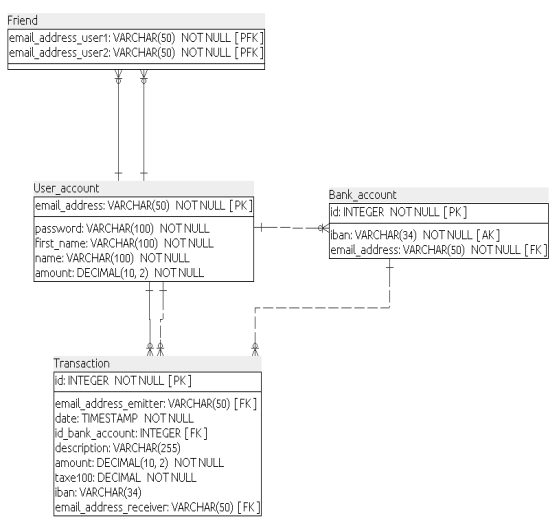
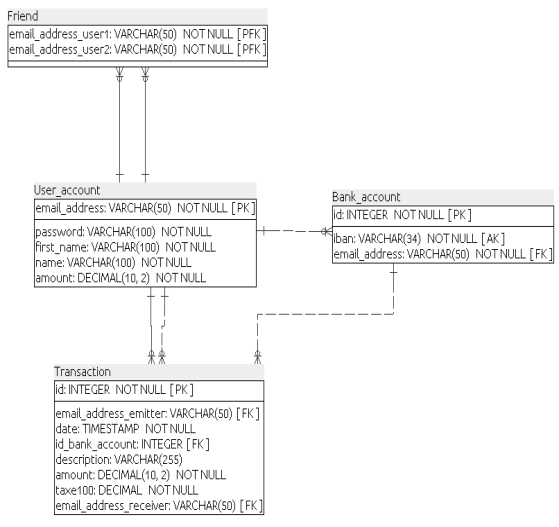
update transaction methods

diff --git a/src/test/java/com/PayMyBuddy/controller/TransactionControllerTest.java b/src/test/java/com/PayMyBuddy/controller/TransactionControllerTest.java
@@ -93,11 +93,8 @@ public class TransactionControllerTest {
   @Test
   public void testCreateMoneyDeposit() throws Exception {
     moneyDeposit = new Transaction();
-    moneyDeposit.setIban("NL46INGB6637543128");
 
     when(userAccountService.userAccountEmailExist(moneyDeposit.getEmailAddressReceiver())).thenReturn(true);
-    when(bankAccountService.bankAccountExist(moneyDeposit.getEmailAddressReceiver(),
-        moneyDeposit.getIban())).thenReturn(true);
     when(transactionService.makeMoneyDeposit(moneyDeposit)).thenReturn(moneyDeposit);
 
     MockHttpServletRequestBuilder builder = MockMvcRequestBuilders.post("/moneyDeposit")
@@ -109,7 +106,6 @@ public class TransactionControllerTest {
   @Test
   public void testCreateMoneyDepositUserAccountDoesntExist() throws Exception {
     moneyDeposit = new Transaction();
-    moneyDeposit.setIban("NL46INGB6637543128");
 
     when(userAccountService.userAccountEmailExist(moneyDeposit.getEmailAddressReceiver())).thenReturn(false);
 
@@ -120,29 +116,14 @@ public class TransactionControllerTest {
   }
 
   @Test
-  public void testCreateMoneyDepositBankAccountDoesntExist() throws Exception {
-    moneyDeposit = new Transaction();
-    moneyDeposit.setIban("NL46INGB6637543128");
-
-    when(userAccountService.userAccountEmailExist(moneyDeposit.getEmailAddressReceiver())).thenReturn(true);
-    when(bankAccountService.bankAccountExist(moneyDeposit.getEmailAddressReceiver(),
-        moneyDeposit.getIban())).thenReturn(false);
-
-    MockHttpServletRequestBuilder builder = MockMvcRequestBuilders.post("/moneyDeposit")
-        .contentType(MediaType.APPLICATION_JSON_VALUE).accept(MediaType.APPLICATION_JSON).characterEncoding("UTF-8")
-        .content(new ObjectMapper().writeValueAsString(moneyDeposit));
-    this.mockMvc.perform(builder).andExpect(MockMvcResultMatchers.status().isNotFound());
-  }
-
-  @Test
   public void testCreateTransactionToBankAccount() throws Exception {
     transactionToBankAccount = new Transaction();
-    transactionToBankAccount.setIban("NL46INGB6637543128");
+    transactionToBankAccount.setIdBankAccount("1");
     transactionToBankAccount.setEmailAddressEmitter("adrien@mail.fr");
 
     when(userAccountService.userAccountEmailExist(transactionToBankAccount.getEmailAddressEmitter())).thenReturn(true);
     when(bankAccountService.bankAccountExist(transactionToBankAccount.getEmailAddressEmitter(),
-        transactionToBankAccount.getIban())).thenReturn(true);
+        transactionToBankAccount.getIdBankAccount())).thenReturn(true);
     when(userAccountService.checkEnoughMoney(transactionToBankAccount.getEmailAddressEmitter(),
         transactionToBankAccount.getAmount())).thenReturn(true);
     when(transactionService.makeTransactionToBankAccount(transactionToBankAccount))
@@ -157,7 +138,7 @@ public class TransactionControllerTest {
   @Test
   public void testCreateTransactionToBankAccountEmailDoesntExist() throws Exception {
     transactionToBankAccount = new Transaction();
-    transactionToBankAccount.setIban("NL46INGB6637543128");
+    transactionToBankAccount.setIdBankAccount("1");
     transactionToBankAccount.setEmailAddressEmitter("adrien@mail.fr");
 
     when(userAccountService.userAccountEmailExist(transactionToBankAccount.getEmailAddressEmitter())).thenReturn(false);
@@ -171,12 +152,12 @@ public class TransactionControllerTest {
   @Test
   public void testCreateTransactionToBankAccountBankAccountDoesntExist() throws Exception {
     transactionToBankAccount = new Transaction();
-    transactionToBankAccount.setIban("NL46INGB6637543128");
+    transactionToBankAccount.setIdBankAccount("1");
     transactionToBankAccount.setEmailAddressEmitter("adrien@mail.fr");
 
     when(userAccountService.userAccountEmailExist(transactionToBankAccount.getEmailAddressEmitter())).thenReturn(true);
     when(bankAccountService.bankAccountExist(transactionToBankAccount.getEmailAddressEmitter(),
-        transactionToBankAccount.getIban())).thenReturn(false);
+        transactionToBankAccount.getIdBankAccount())).thenReturn(false);
 
     MockHttpServletRequestBuilder builder = MockMvcRequestBuilders.post("/transactionToBankAccount")
         .contentType(MediaType.APPLICATION_JSON_VALUE).accept(MediaType.APPLICATION_JSON).characterEncoding("UTF-8")
@@ -187,12 +168,12 @@ public class TransactionControllerTest {
   @Test
   public void testCreateTransactionToBankAccountNotEnoughMoney() throws Exception {
     transactionToBankAccount = new Transaction();
-    transactionToBankAccount.setIban("NL46INGB6637543128");
+    transactionToBankAccount.setIdBankAccount("1");
     transactionToBankAccount.setEmailAddressEmitter("adrien@mail.fr");
 
     when(userAccountService.userAccountEmailExist(transactionToBankAccount.getEmailAddressEmitter())).thenReturn(true);
     when(bankAccountService.bankAccountExist(transactionToBankAccount.getEmailAddressEmitter(),
-        transactionToBankAccount.getIban())).thenReturn(true);
+        transactionToBankAccount.getIdBankAccount())).thenReturn(true);
     when(userAccountService.checkEnoughMoney(transactionToBankAccount.getEmailAddressEmitter(),
         transactionToBankAccount.getAmount())).thenReturn(false);
 

diff --git a/src/main/java/com/PayMyBuddy/controller/TransactionController.java b/src/main/java/com/PayMyBuddy/controller/TransactionController.java
@@ -99,14 +99,10 @@ public class TransactionController {
       logger.info("Post request with the endpoint 'moneyDeposit'");
       existingUserAccount = userAccountService.userAccountEmailExist(moneyDeposit.getEmailAddressReceiver());
       if (existingUserAccount) {
-        existingBankAccount = bankAccountService.bankAccountExist(moneyDeposit.getEmailAddressReceiver(),
-            moneyDeposit.getIban());
-        if (existingBankAccount) {
-          newMoneyDeposit = transactionService.makeMoneyDeposit(moneyDeposit);
-          logger.info(
-              "response following the Post on the endpoint 'moneyDeposit' with the given moneyDeposit : {"
-                  + moneyDeposit.toString() + "}");
-        }
+        newMoneyDeposit = transactionService.makeMoneyDeposit(moneyDeposit);
+        logger.info(
+            "response following the Post on the endpoint 'moneyDeposit' with the given moneyDeposit : {"
+                + moneyDeposit.toString() + "}");
       }
     } catch (Exception exception) {
       logger.error("Error in the TransactionController in the method createMoneyDeposit :"
@@ -118,11 +114,6 @@ public class TransactionController {
       throw new NonexistentException(
           "The user account "
               + moneyDeposit.getEmailAddressReceiver() + " doesn't exist.");
-    }
-    if (!existingBankAccount) {
-      logger.error("The emitter has not this bank account.");
-      throw new NonexistentException(
-          "The emitter has not this bank account.");
     }
     return newMoneyDeposit;
   }
@@ -145,7 +136,7 @@ public class TransactionController {
           .userAccountEmailExist(transactionToBankAccount.getEmailAddressEmitter());
       if (existingUserAccount) {
         existingBankAccount = bankAccountService.bankAccountExist(transactionToBankAccount.getEmailAddressEmitter(),
-            transactionToBankAccount.getIban());
+            transactionToBankAccount.getIdBankAccount());
         if (existingBankAccount) {
           checkIfEnoughMoney = userAccountService.checkEnoughMoney(transactionToBankAccount.getEmailAddressEmitter(),
               transactionToBankAccount.getAmount());

diff --git a/src/main/java/com/PayMyBuddy/service/TransactionServiceImpl.java b/src/main/java/com/PayMyBuddy/service/TransactionServiceImpl.java
@@ -1,7 +1,6 @@
 package com.PayMyBuddy.service;
 
 import com.PayMyBuddy.constants.Tax;
-import com.PayMyBuddy.model.BankAccount;
 import com.PayMyBuddy.model.Transaction;
 import com.PayMyBuddy.model.UserAccount;
 import com.PayMyBuddy.repository.BankAccountRepository;
@@ -89,10 +88,6 @@ public class TransactionServiceImpl implements TransactionService {
   public Transaction makeMoneyDeposit(Transaction moneyDeposit) {
     logger.debug("in the method makeFriendTransaction in the class TransactionServiceImpl");
     try {
-      BankAccount emitter = bankAccountRepository.findByIban(moneyDeposit.getIban());
-      double taxAmount = moneyDeposit.getAmount() * Tax.TAX100 / 100;
-      // add here the direct debit from the bank account
-      // add here the transaction of tax_amount towards the account of the app
       UserAccount receiver = userAccountRepository.findByEmailAddress(moneyDeposit.getEmailAddressReceiver());
       receiver.setAmount(receiver.getAmount() + moneyDeposit.getAmount());
       userAccountService.saveUserAccount(receiver);
@@ -116,12 +111,11 @@ public class TransactionServiceImpl implements TransactionService {
     logger.debug("in the method makeFriendTransaction in the class TransactionServiceImpl");
     try {
       double taxAmount = transactionToBankAccount.getAmount() * Tax.TAX100 / 100;
-      // add here the transaction of tax_amount towards the account of the app
       UserAccount emitter = userAccountRepository.findByEmailAddress(transactionToBankAccount.getEmailAddressEmitter());
       emitter.setAmount(emitter.getAmount() - (transactionToBankAccount.getAmount() + taxAmount));
       userAccountService.saveUserAccount(emitter);
-      BankAccount receiver = bankAccountRepository.findByIban(transactionToBankAccount.getIban());
-      // add here the money deposit on the bank account
+      bankAccountRepository.findById(transactionToBankAccount.getIdBankAccount());
+      // add here the transaction to the bank account via the api of the bank
       transactionToBankAccount.setMyDate(new Date());
       saveTransaction(transactionToBankAccount);
     } catch (Exception exception) {

diff --git a/src/test/java/com/PayMyBuddy/service/TransactionServiceTest.java b/src/test/java/com/PayMyBuddy/service/TransactionServiceTest.java
@@ -83,13 +83,13 @@ public class TransactionServiceTest {
    */
   @Test
   public void testMakeMoneyDeposit() {
-    moneyDeposit.setIban("NL46INGB6637543128");
+    moneyDeposit.setIdBankAccount("1");
     moneyDeposit.setAmount(100);
     moneyDeposit.setEmailAddressReceiver("marie@mail.fr");
     userAccount.setEmailAddress("marie@mail.fr");
     userAccount.setAmount(500);
 
-    when(bankAccountRepositoryMock.findByIban(moneyDeposit.getIban()))
+    when(bankAccountRepositoryMock.findById(moneyDeposit.getIdBankAccount()))
         .thenReturn(bankAccount);
     when(userAccountRepositoryMock.findByEmailAddress(moneyDeposit.getEmailAddressReceiver())).thenReturn(userAccount);
     when(userAccountService.saveUserAccount(userAccount))
@@ -102,7 +102,7 @@ public class TransactionServiceTest {
 
   @Test
   public void testMakeTransactionToBankAccount() {
-    transactionToBankAccount.setIban("NL46INGB6637543128");
+    transactionToBankAccount.setIdBankAccount("1");
     transactionToBankAccount.setAmount(100);
     transactionToBankAccount.setEmailAddressEmitter("marie@mail.fr");
     userAccount.setEmailAddress("marie@mail.fr");
@@ -111,7 +111,7 @@ public class TransactionServiceTest {
     when(userAccountRepositoryMock.findByEmailAddress(transactionToBankAccount.getEmailAddressEmitter()))
         .thenReturn(userAccount);
     when(userAccountService.saveUserAccount(userAccount)).thenReturn(userAccount);
-    when(bankAccountRepositoryMock.findByIban(transactionToBankAccount.getIban()))
+    when(bankAccountRepositoryMock.findById(transactionToBankAccount.getIdBankAccount()))
         .thenReturn(bankAccount);
 
     transactionService.makeTransactionToBankAccount(transactionToBankAccount);

diff --git a/src/test/java/com/PayMyBuddy/controller/BankAccountControllerTest.java b/src/test/java/com/PayMyBuddy/controller/BankAccountControllerTest.java
@@ -11,6 +11,7 @@ import org.springframework.beans.factory.annotation.Autowired;
 import org.springframework.boot.test.autoconfigure.web.servlet.WebMvcTest;
 import org.springframework.boot.test.mock.mockito.MockBean;
 import org.springframework.http.MediaType;
+import org.springframework.security.test.context.support.WithMockUser;
 import org.springframework.test.web.servlet.MockMvc;
 import org.springframework.test.web.servlet.request.MockHttpServletRequestBuilder;
 import org.springframework.test.web.servlet.request.MockMvcRequestBuilders;
@@ -28,11 +29,13 @@ public class BankAccountControllerTest {
   private BankAccount bankAccount;
 
   @Test
+  @WithMockUser(roles = "ADMIN")
   public void testGetBankAccounts() throws Exception {
     mockMvc.perform(get("/bankAccounts")).andExpect(status().isOk());
   }
 
   @Test
+  @WithMockUser(roles = "ADMIN")
   public void testCreateBankAccount() throws Exception {
     bankAccount = new BankAccount();
     bankAccount.setEmailAddress("adrien@mail.fr");

diff --git a/src/main/java/com/PayMyBuddy/service/BankAccountServiceImpl.java b/src/main/java/com/PayMyBuddy/service/BankAccountServiceImpl.java
@@ -23,11 +23,11 @@ public class BankAccountServiceImpl implements BankAccountService {
    * @return true if the association of both exist, otherwise returns false
    */
   @Override
-  public boolean bankAccountExist(String emailAddressReceiver, String iban) {
+  public boolean bankAccountExist(String emailAddressReceiver, String id) {
     logger.debug("in the method bankAccountExist in the class BankAccountServiceImpl");
-    return bankAccountRepository.existsByEmailAddressAndIban(
+    return bankAccountRepository.existsByEmailAddressAndId(
         emailAddressReceiver,
-        iban);
+        id);
   }
 
   /**

diff --git a/src/main/java/com/PayMyBuddy/repository/BankAccountRepository.java b/src/main/java/com/PayMyBuddy/repository/BankAccountRepository.java
@@ -11,4 +11,8 @@ public interface BankAccountRepository extends CrudRepository<BankAccount, Long>
 
   BankAccount findByIban(String iban);
 
+  BankAccount findById(String idBankAccount);
+
+  boolean existsByEmailAddressAndId(String emailAddressReceiver, String id);
+
 }

diff --git a/src/main/java/com/PayMyBuddy/configuration/WebSecurityConfig.java b/src/main/java/com/PayMyBuddy/configuration/WebSecurityConfig.java
@@ -48,6 +48,7 @@ public class WebSecurityConfig extends WebSecurityConfigurerAdapter {
         .defaultSuccessUrl("/user")
         .permitAll()
         .and().logout().logoutSuccessUrl("/").permitAll();
+
   }
 
   @Override

diff --git a/src/main/java/com/PayMyBuddy/model/Transaction.java b/src/main/java/com/PayMyBuddy/model/Transaction.java
@@ -29,6 +29,6 @@ public class Transaction {
 
   private String emailAddressReceiver;
 
-  public String iban;
+  public String idBankAccount;
 
 }
